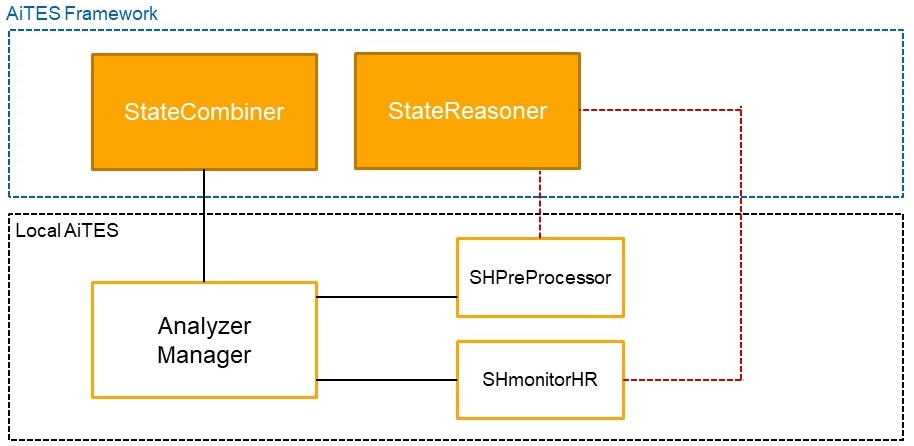
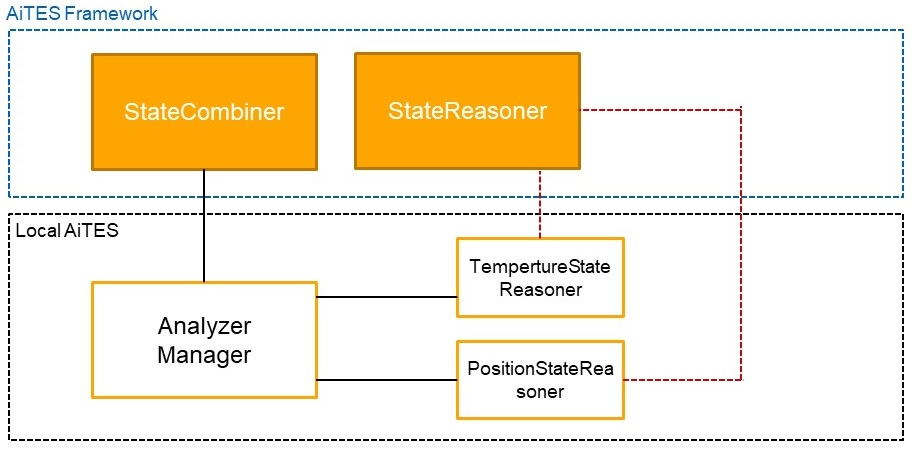
rule parser impl
rule parser impl, analyzer image update

Changed region(s): [[0.0, 0.0, 1.0, 0.991], [0.1532, 0.6996, 0.2757, 0.8161], [0.1225, 0.204, 0.3063, 0.2915]]

diff --git a/LocalAiTESImpl/LocalAiTESImpl/src/com/github/aites/shlocalaites/ruleset/RuleSetParser.java b/LocalAiTESImpl/LocalAiTESImpl/src/com/github/aites/shlocalaites/ruleset/RuleSetParser.java
@@ -5,6 +5,7 @@ import java.io.File;
 import java.io.FileNotFoundException;
 import java.io.FileReader;
 import java.io.IOException;
+import java.util.*;
 
 
 public class RuleSetParser {
@@ -14,9 +15,14 @@ public class RuleSetParser {
 	
 	private RuleSetBody ruleSetBody = new RuleSetBody();
 	
+	private Stack ruleParsingStack = new Stack();
+	private String swrlRule="";
+	private ArrayList<String>ruleList = new ArrayList<String>();
+	
 	private boolean headTrigger = false;
 	private boolean declartionTrigger = false;
 	private boolean assertionTrigger = false;
+	private boolean dlsafeRuleTrigger = false;
 	public void loadRuleSet(String rulesetName){
 		String ruleString = "";
 	
@@ -40,6 +46,40 @@ public class RuleSetParser {
 				}
 				else if(assertionTrigger){
 					ruleSetBody.addExAxiom(ruleString);
+					if(ruleString.contains("DLSafeRule")){
+						System.out.println("#####DLSafeRule Start#####");
+						swrlRule = swrlRule+ruleString+"\r\n";
+						showpush(ruleParsingStack);
+						dlsafeRuleTrigger = true;
+					}
+					else if(dlsafeRuleTrigger){
+						swrlRule = swrlRule+ruleString+"\r\n";
+						for(int i=0; i<ruleString.length(); i++){
+							if(ruleString.charAt(i) == '('){
+								showpush(ruleParsingStack);
+								
+							}
+							else if(ruleString.charAt(i) == ')'){
+								try{
+									showpop(ruleParsingStack);
+									if(ruleParsingStack.isEmpty()){
+										System.out.println("#####DLSafeRule end#####");
+										System.out.println(swrlRule);
+										ruleList.add(swrlRule);
+										swrlRule = "";
+										
+									}
+								}catch(EmptyStackException e){
+									System.out.println("#####End Rule parsing#####");
+									for(String r: ruleList){
+										SWRLrule swrlRule = new SWRLrule(r);
+										swrlRule.parsedRule();
+									}
+								}	
+							}
+						}
+					}
+					
 				}
 				else if(headTrigger){
 					if(ruleString.contains("Class")){
@@ -74,5 +114,16 @@ public class RuleSetParser {
 	
 	public RuleSetBody getRuleSetBody(){
 		return ruleSetBody;
+	}
+	private void showpush(Stack st){
+		st.push(new String("("));
+		System.out.println("push");
+		System.out.println("stack:"+st);
+	}
+	private void showpop(Stack st){
+		st.pop();
+		System.out.println("pop");
+		System.out.println("stack:"+st);
+	
 	}
 }

diff --git a/LocalAiTESImpl/LocalAiTESImpl/src/com/github/aites/shlocalaites/analyze/TempertureStateResoner.java b/LocalAiTESImpl/LocalAiTESImpl/src/com/github/aites/shlocalaites/analyze/TempertureStateResoner.java
@@ -18,27 +18,37 @@ import org.semanticweb.owlapi.vocab.PrefixOWLOntologyFormat;
 
 import com.clarkparsia.pellet.owlapiv3.PelletReasonerFactory;
 import com.github.aites.shlocalaites.log.LogWritter;
+import com.github.aites.shlocalaites.rule.RuleManager;
+import com.github.aites.shlocalaites.ruleset.RuleSetManager;
 
 import uk.ac.manchester.cs.owlapi.dlsyntax.DLSyntaxObjectRenderer;
 
 public class TempertureStateResoner {
 	String tempertureState;
-	String tempIndname = "envData1";
+	
 	LogWritter log = LogWritter.getInstance();
-	public String stateResoning(String temperture){
+	public String stateResoning(String temperture, String collectDate){
 		log.logInput("*****Start Home Temperture State Reasoning*****");
 		log.logInput(temperture);
 		
-		double temp = Double.parseDouble(temperture);
+		String feedBackInd = "SHEdata"+collectDate.replaceAll("[.: ]", "");
+		log.logInput("#####Reasoing rule about individual:"+feedBackInd+" and dataProperty:"+tempertureState+"#####");
+		RuleSetManager ruleSetManager = new RuleSetManager("smartHome.xml");
+	    ruleSetManager.assertDataProperty("hasPS", feedBackInd, tempertureState, "double");
+		ruleSetManager.saveRuleSet();
 		
-		if(temp > 28){
+		RuleManager ruleManager2 = new RuleManager("smartHome.xml");
+		ruleManager2.loadOntology(); 
+		boolean isHotTem= ruleManager2.reasoningRule(feedBackInd, "TempertureHotRule");
+		boolean isColdTem = ruleManager2.reasoningRule(feedBackInd, "TempertureColdRule");
+		if(isHotTem){
 			tempertureState = "hot";
 		}
-		else if(temp < 18){
+		else if(isColdTem){
 			tempertureState = "cold";
 		}
 		else{
-			tempertureState = "normal";
+			tempertureState = "warm";
 		}
 		
 		return tempertureState;

diff --git a/LocalAiTESImpl/LocalAiTESImpl/src/com/github/aites/shlocalaites/analyze/StateCombiner.java b/LocalAiTESImpl/LocalAiTESImpl/src/com/github/aites/shlocalaites/analyze/StateCombiner.java
@@ -17,17 +17,17 @@ public class StateCombiner {
 	}
 	public String combinestateSetReasoing(){
 		log.logInput("*****state combiner start*****");
-		if(psState.equals("under")&&tempertureState.equals("normal") && positionState.equals("outHome")){
+		if(psState.equals("under")&&tempertureState.equals("warm") && positionState.equals("outHome")){
 			log.logInput("StateSet Don't Need plan:"+psState+","+tempertureState+","+positionState);
 			needPlan = "no";
 			stateCombine();
 		}
-		else if(psState.equals("over")&&tempertureState.equals("over") && positionState.equals("inHome")){
+		else if(psState.equals("over")&&tempertureState.equals("hot") && positionState.equals("inHome")){
 			log.logInput("StateSet Don't Need plan:"+psState+","+tempertureState+","+positionState);
 			needPlan = "no";
 			stateCombine();
 		}
-		else if(psState.equals("over")&&tempertureState.equals("normal") && positionState.equals("outHome")){
+		else if(psState.equals("over")&&tempertureState.equals("warm") && positionState.equals("outHome")){
 			log.logInput("StateSet Need plan:"+psState+","+tempertureState+","+positionState);
 			needPlan = "yes";
 			stateCombine();
@@ -37,7 +37,7 @@ public class StateCombiner {
 			needPlan = "yes";
 			stateCombine();
 		}
-		else if(psState.equals("over")&&tempertureState.equals("normal") && positionState.equals("inHome")){
+		else if(psState.equals("over")&&tempertureState.equals("warm") && positionState.equals("inHome")){
 			log.logInput("StateSet Need plan:"+psState+","+tempertureState+","+positionState);
 			needPlan = "yes";
 			stateCombine();

diff --git a/LocalAiTESImpl/LocalAiTESImpl/src/com/github/aites/shlocalaites/ruleset/SWRLrule.java b/LocalAiTESImpl/LocalAiTESImpl/src/com/github/aites/shlocalaites/ruleset/SWRLrule.java
@@ -1,0 +1,49 @@
+package com.github.aites.shlocalaites.ruleset;
+
+import java.util.ArrayList;
+
+public class SWRLrule {
+	private String swrlRule;
+    private ArrayList<String> bodyAtoms = new ArrayList<String>();
+    private String headAtom;
+    private String annotation;
+    
+    public SWRLrule(String swrlRule){
+    	this.swrlRule = swrlRule;
+    	ruleParsing();
+    }
+	private void ruleParsing(){
+		String[] parsedRule = swrlRule.split("\r\n");
+		for(int i=0; i<parsedRule.length; i++){
+			if(parsedRule[i].contains("Body")){
+				//System.out.println(parsedRule[i] +" ["+i+"] - BodyAtoms");
+				for(int j=i+1; i<parsedRule.length; j++){
+					if(parsedRule[j].equals("        )")){
+						break;
+					}
+					bodyAtoms.add(parsedRule[j]);
+				}
+			}
+			else if(parsedRule[i].contains("Head")){
+				//System.out.println(parsedRule[i] +" ["+i+"] - HeadAtoms");
+				headAtom = parsedRule[i+1];
+			}
+			else if(parsedRule[i].contains("Annotation")){
+				//System.out.println(parsedRule[i] +" ["+i+"] - Annotation");
+				annotation = parsedRule[i];
+			}
+			else{
+				//System.out.println(parsedRule[i] +" ["+i+"]");
+			}
+			
+		}
+	}
+	public void parsedRule(){
+		System.out.println("####Parsed SWRL rule#####");
+		System.out.println("Rule annotation:"+annotation);
+		System.out.println("Rule headAtom:"+headAtom);
+		for(String b : bodyAtoms){
+			System.out.println("Rule bodyAtom:"+b);
+		}
+	}
+}

diff --git a/LocalAiTESImpl/LocalAiTESImpl/src/com/github/aites/shlocalaites/framework/LocalAiTES.java b/LocalAiTESImpl/LocalAiTESImpl/src/com/github/aites/shlocalaites/framework/LocalAiTES.java
@@ -80,15 +80,15 @@ public class LocalAiTES extends LocalAiTESManager{
 		//ruleSetManager.assertDataProperty("hasMoney", "Client3", "5000", "integer");
 		//ruleSetManager.saveRuleSet();
 		
-		RuleManager ruleManager = new RuleManager("smartHome.xml");
-		ruleManager.loadOntology(); 
-		boolean isOverPS = ruleManager.reasoningRule("SHEdata1", "PSoverRule");
-		System.out.println(isOverPS);
+		//RuleManager ruleManager = new RuleManager("smartHome.xml");
+		//ruleManager.loadOntology(); 
+		///boolean isOverPS = ruleManager.reasoningRule("SHEdata1", "PSoverRule");
+		//System.out.println(isOverPS);
 		
 		RuleSetManager ruleSetManager2 = new RuleSetManager("smartHome.xml");
-		ruleSetManager2.assertInd("SHEdata2017", "SHEdata");
-		ruleSetManager2.assertDataProperty("hasPS", "SHEdata2017", "1200", "double");
-		ruleSetManager2.saveRuleSet();
+		//ruleSetManager2.assertInd("SHEdata2017", "SHEdata");
+		//ruleSetManager2.assertDataProperty("hasPS", "SHEdata2017", "1200", "double");
+		//ruleSetManager2.saveRuleSet();
 	
 		//RuleManager ruleManager2 = new RuleManager("smartHome.xml");
 		//ruleManager2.loadOntology(); 

diff --git a/LocalAiTESImpl/LocalAiTESImpl/src/com/github/aites/shlocalaites/aitesmanager/AnalyzerManager.java b/LocalAiTESImpl/LocalAiTESImpl/src/com/github/aites/shlocalaites/aitesmanager/AnalyzerManager.java
@@ -40,8 +40,8 @@ public class AnalyzerManager extends Manager{
 		String position = monitorInfo.get(2);
 		String temperture = monitorInfo.get(3);
 	
-		String positionState = pr.stateResoning(position);
-		String tempertureState = tr.stateResoning(temperture);
+		String positionState = pr.stateResoning(position,monitorInfo.get(0));
+		String tempertureState = tr.stateResoning(temperture,monitorInfo.get(0));
 	
 		sc = new StateCombiner(tempertureState, positionState, monitorInfo.get(1));
 		String stateSet = sc.combinestateSetReasoing();

diff --git a/LocalAiTESImpl/LocalAiTESImpl/src/com/github/aites/shlocalaites/analyze/PositionStateResoner.java b/LocalAiTESImpl/LocalAiTESImpl/src/com/github/aites/shlocalaites/analyze/PositionStateResoner.java
@@ -38,7 +38,7 @@ public class PositionStateResoner {
 		
 	}
 	
-	public String stateResoning(String position){
+	public String stateResoning(String position, String collectDate){
 		log.logInput("*****Start Position State Reasoning*****");
 		processedPosition(position);
 		log.logInput("resoning user position state:"+positionState);
